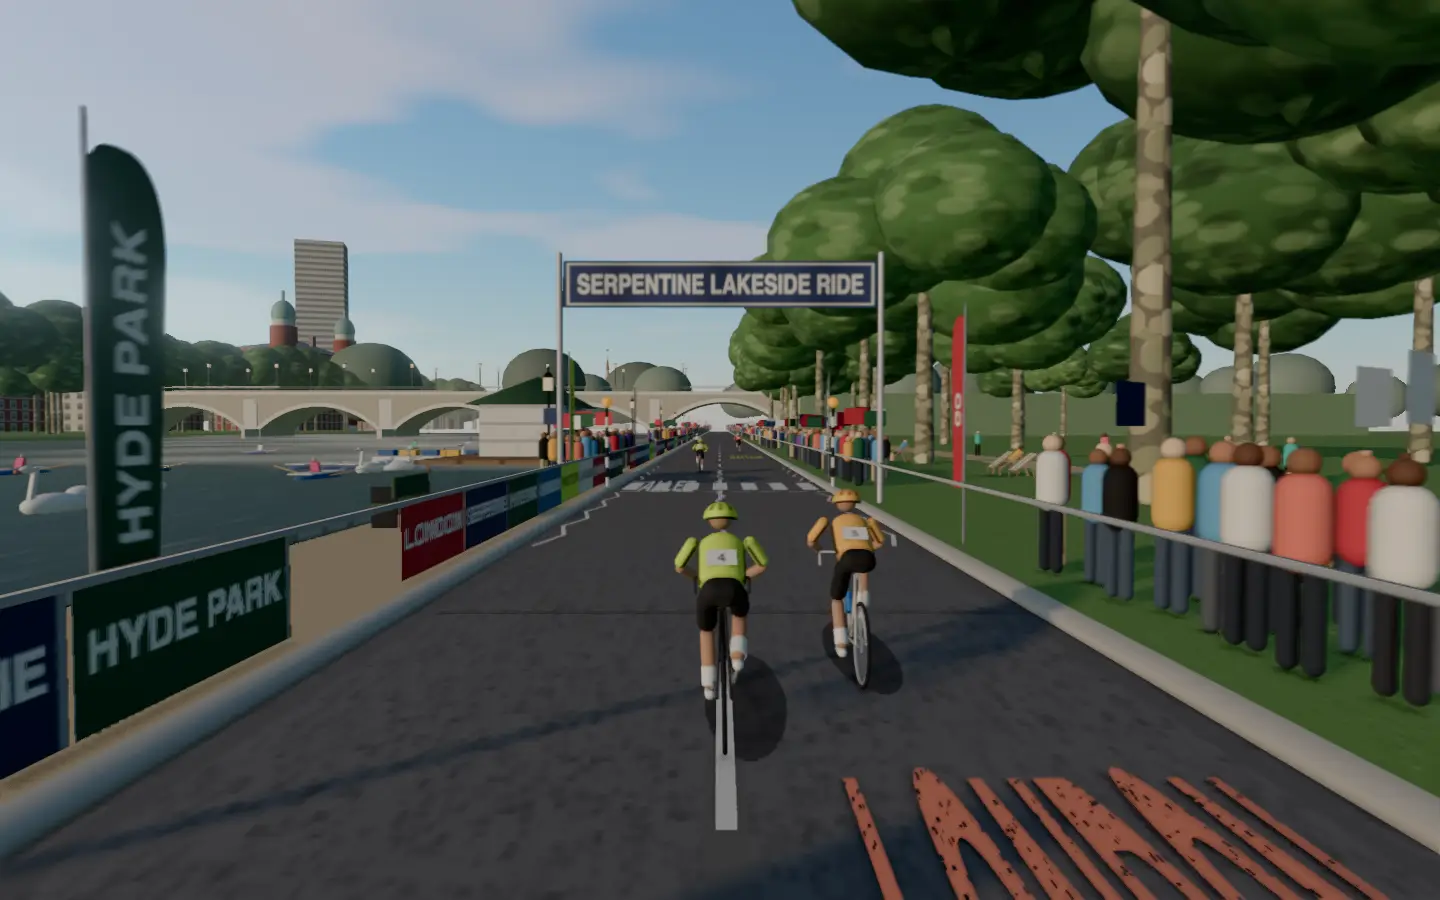
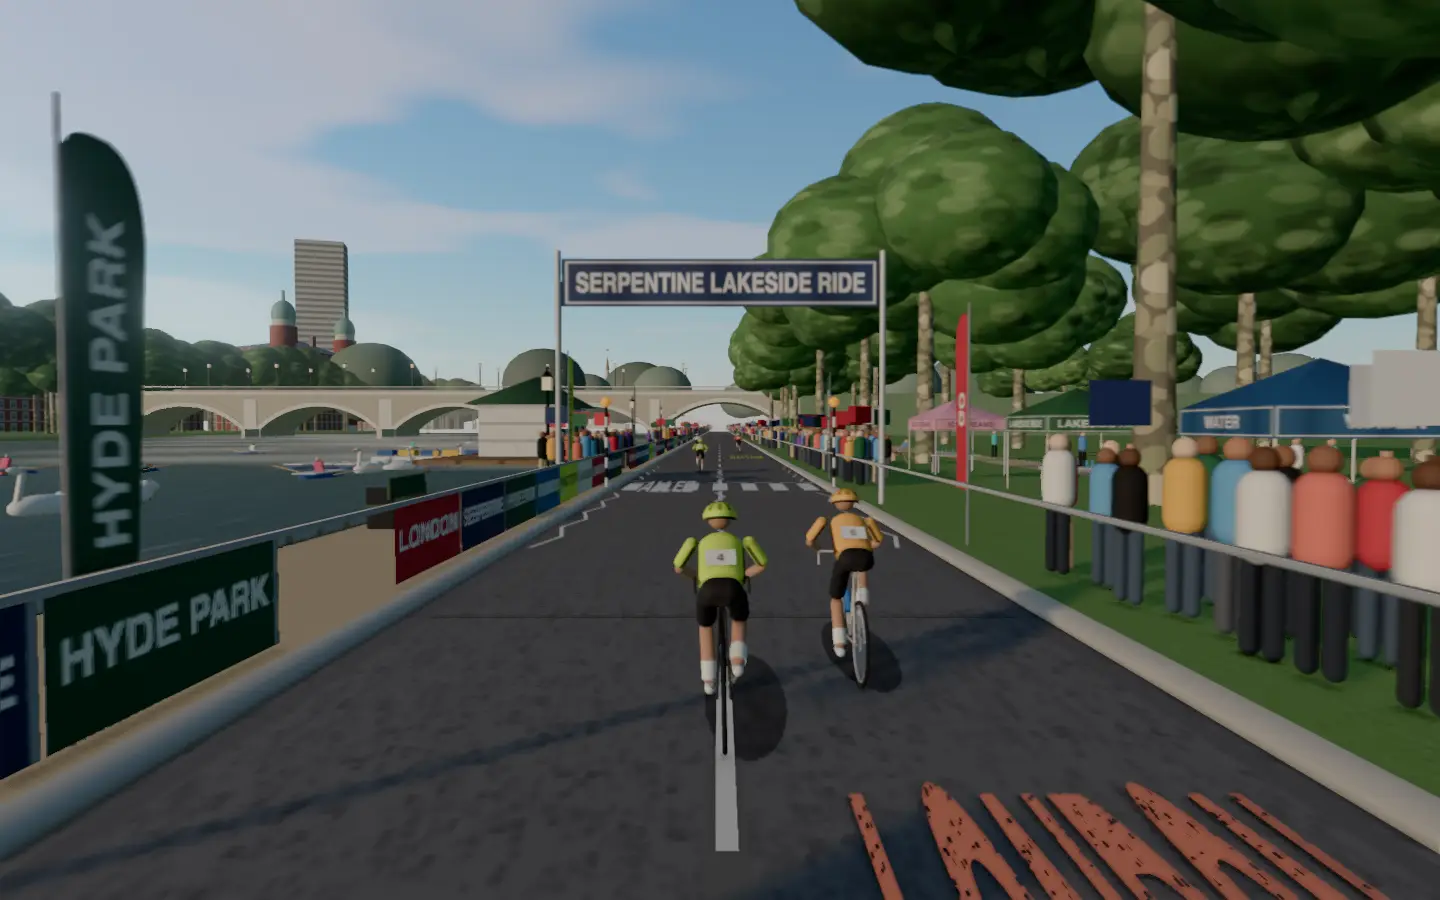
Share the pop-up tents in the kit and pitch the Serpentine ride's village

diff --git a/frontend/projects/wattzup/src/app/core/world-kit.ts b/frontend/projects/wattzup/src/app/core/world-kit.ts
@@ -3,12 +3,13 @@
 // figures' limbs. A street built on them follows Old Town's pattern (world-oldtown.ts): `build`
 // once, then `lay` and `place` each frame, recycling its parts along a loop.
 import {
-  type BoxGeometry,
+  BoxGeometry,
   BufferAttribute,
   BufferGeometry,
   CanvasTexture,
   CapsuleGeometry,
   Color,
+  ConeGeometry,
   CylinderGeometry,
   DoubleSide,
   Group,
@@ -643,6 +644,92 @@ function mistTexture(curtain: boolean): CanvasTexture {
       g.fillRect(0, 0, 256, 256);
     }
   });
+}
+
+/**
+ * Pop-up tents for a ride's village: a 3 m square canopy peaked over four white legs, a printed
+ * valance on every side naming the tent, and a trestle table under it laid with water bottles.
+ */
+export class PopupTents {
+  private readonly leg = new CylinderGeometry(0.03, 0.03, 2.3, 6).translate(0, 1.15, 0);
+  private readonly roof = new ConeGeometry(2.12, 0.8, 4, 1, true).rotateY(Math.PI / 4);
+  private readonly valance = new PlaneGeometry(3, 0.5);
+  private readonly top = new BoxGeometry(1.9, 0.05, 0.7);
+  private readonly bottle = new CylinderGeometry(0.035, 0.035, 0.22, 8);
+  private readonly white = new MeshStandardMaterial({
+    color: 0xf2f2ee,
+    metalness: 0.4,
+    roughness: 0.4,
+  });
+  private readonly water = new MeshStandardMaterial({
+    color: 0x4fa3d8,
+    roughness: 0.2,
+    transparent: true,
+    opacity: 0.85,
+  });
+
+  constructor(
+    private readonly disposables: { dispose(): void }[],
+    private readonly track: <T extends Texture>(texture: T) => T,
+  ) {
+    disposables.push(
+      this.leg,
+      this.roof,
+      this.valance,
+      this.top,
+      this.bottle,
+      this.white,
+      this.water,
+    );
+  }
+
+  /** A tent with `text` on its valance, in `fill` with `ink` lettering. */
+  make(text: string, fill: string, ink: string): Group {
+    const tent = new Group();
+    for (const [lx, lz] of [
+      [-1.45, -1.45],
+      [1.45, -1.45],
+      [-1.45, 1.45],
+      [1.45, 1.45],
+    ] as const) {
+      const l = new Mesh(this.leg, this.white);
+      l.position.set(lx, 0, lz);
+      tent.add(l);
+    }
+    const cloth = new MeshStandardMaterial({ color: fill, side: DoubleSide, roughness: 0.7 });
+    const print = new MeshStandardMaterial({
+      map: this.track(clothBannerTexture(text, fill, ink)),
+      side: DoubleSide,
+      roughness: 0.7,
+    });
+    this.disposables.push(cloth, print);
+    const canopy = new Mesh(this.roof, cloth);
+    canopy.position.y = 2.3 + 0.4;
+    canopy.castShadow = true;
+    tent.add(canopy);
+    for (let k = 0; k < 4; k++) {
+      const v = new Mesh(this.valance, print);
+      const a = (k * Math.PI) / 2;
+      v.position.set(Math.sin(a) * 1.5, 2.05, Math.cos(a) * 1.5);
+      v.rotation.y = a;
+      tent.add(v);
+    }
+    const table = new Mesh(this.top, this.white);
+    table.position.y = 0.75;
+    tent.add(table);
+    for (const tx of [-0.75, -0.5, 0.75]) {
+      const tableLeg = new Mesh(this.leg, this.white);
+      tableLeg.scale.y = 0.32;
+      tableLeg.position.set(tx < 0 ? -0.85 : 0.85, 0, tx === -0.5 ? 0.3 : -0.3);
+      tent.add(tableLeg);
+    }
+    for (let b = 0; b < 8; b++) {
+      const m = new Mesh(this.bottle, this.water);
+      m.position.set(-0.8 + b * 0.22, 0.88, (b % 2) * 0.14 - 0.07);
+      tent.add(m);
+    }
+    return tent;
+  }
 }
 
 /** A feather flag's colour and the word down it: the word, the cloth's fill and the ink. */

diff --git a/frontend/projects/wattzup/src/app/core/world-serpentine.ts b/frontend/projects/wattzup/src/app/core/world-serpentine.ts
@@ -44,6 +44,7 @@ import {
   loopMetres,
   Mist,
   paintTexture,
+  PopupTents,
   Ribbons,
   scaleFaceUv,
   type SceneStreet,
@@ -125,6 +126,20 @@ const FEATHERS: readonly FeatherWord[] = [
   ['WATTZUP', '#d7ff3a', '#1b1e24'],
 ];
 const FEATHER_EVERY = 16;
+/**
+ * The ride village's pop-up tents on the lawn: the valance's words, the canopy's fill and the
+ * ink, how far into the loop and how far off the road's centre. The first stand in the opening
+ * view.
+ */
+const TENTS: readonly (readonly [string, string, string, number, number])[] = [
+  ['WATER', '#1f4e79', '#ffffff', 108, 9.8],
+  ['LAKESIDE RIDE', '#2c5e3a', '#ffffff', 118, 10.4],
+  ['ICE CREAMS', '#f2a7c3', '#5a1f33', 128, 9.9],
+  ['WATTZUP', '#d7ff3a', '#1b1e24', 210, 9.8],
+  ['BIKE REPAIR', '#c8202f', '#ffffff', 220, 10.3],
+  ['FIRST AID', '#f2efe6', '#c8202f', 340, 9.8],
+  ['WATER', '#1f4e79', '#ffffff', 430, 9.6],
+];
 /** What the fans paint on the road, its colour and how far off the centre line. */
 const ROAD_PAINT: readonly (readonly [string, string, number])[] = [
   ['COME ON', '#ffffff', -1.8],
@@ -226,6 +241,7 @@ export class SerpentineStreet implements SceneStreet {
     this.addJoggers();
     this.addStreetBanners(roadHalf);
     this.addFeatherFlags();
+    this.addTents();
     this.addRoadPaint();
     this.addCrossing(roadHalf);
     this.addHorizon();
@@ -474,7 +490,9 @@ export class SerpentineStreet implements SceneStreet {
     let placed = 0;
     for (let offset = 2; placed < DECKCHAIRS; offset += 6 + random() * 10) {
       const group = 2 + Math.floor(random() * 2);
-      const x = 6.8 + random() * 7;
+      // Set back behind the village's tents where they stand.
+      const tent = TENTS.some(([, , , at]) => Math.abs(offset - at) < 6);
+      const x = 6.8 + random() * 7 + (tent ? 6 : 0);
       for (let k = 0; k < group && placed < DECKCHAIRS; k++, placed++) {
         const chair = new Group();
         const canvas = new Mesh(sling, stripes);
@@ -871,6 +889,17 @@ export class SerpentineStreet implements SceneStreet {
     this.group.add(crossing);
     // Short of the boathouse, close enough in the opening view to read.
     this.props.push({ mesh: crossing, offset: BOATHOUSE - 28, every: LOOP, x: 0 });
+  }
+
+  /** The ride village: pop-up tents on the lawn, each turned a little to the road. */
+  private addTents(): void {
+    const tents = new PopupTents(this.disposables, this.track);
+    TENTS.forEach(([text, fill, ink, offset, x], i) => {
+      const tent = tents.make(text, fill, ink);
+      tent.rotation.y = (i % 3) * 0.12 - 0.12;
+      this.group.add(tent);
+      this.props.push({ mesh: tent, offset, every: LOOP, x, near: true });
+    });
   }
 
   /** What the fans have painted on the road. */

diff --git a/frontend/projects/wattzup/src/app/core/world-stanleypark.ts b/frontend/projects/wattzup/src/app/core/world-stanleypark.ts
@@ -39,6 +39,7 @@ import {
   hazedMaterial,
   loopMetres,
   paintTexture,
+  PopupTents,
   Ribbons,
   scaleFaceUv,
   type SceneStreet,
@@ -520,66 +521,9 @@ export class StanleyParkStreet implements SceneStreet {
    * printed valance on every side, and a trestle table under it laid with water bottles.
    */
   private addTents(): void {
-    const leg = new CylinderGeometry(0.03, 0.03, 2.3, 6);
-    leg.translate(0, 1.15, 0);
-    const roof = new ConeGeometry(2.12, 0.8, 4, 1, true);
-    roof.rotateY(Math.PI / 4);
-    const valance = new PlaneGeometry(3, 0.5);
-    const top = new BoxGeometry(1.9, 0.05, 0.7);
-    const bottle = new CylinderGeometry(0.035, 0.035, 0.22, 8);
-    this.disposables.push(leg, roof, valance, top, bottle);
-    const white = this.material({ color: 0xf2f2ee, metalness: 0.4, roughness: 0.4 });
-    const blue = this.material({
-      color: 0x4fa3d8,
-      roughness: 0.2,
-      transparent: true,
-      opacity: 0.85,
-    });
+    const tents = new PopupTents(this.disposables, this.track);
     TENTS.forEach(([text, fill, ink, offset, x], i) => {
-      const tent = new Group();
-      for (const [lx, lz] of [
-        [-1.45, -1.45],
-        [1.45, -1.45],
-        [-1.45, 1.45],
-        [1.45, 1.45],
-      ] as const) {
-        const l = new Mesh(leg, white);
-        l.position.set(lx, 0, lz);
-        tent.add(l);
-      }
-      const canopy = new Mesh(
-        roof,
-        this.material({ color: fill, side: DoubleSide, roughness: 0.7 }),
-      );
-      canopy.position.y = 2.3 + 0.4;
-      canopy.castShadow = true;
-      tent.add(canopy);
-      const print = this.material({
-        map: this.track(clothBannerTexture(text, fill, ink)),
-        side: DoubleSide,
-        roughness: 0.7,
-      });
-      for (let k = 0; k < 4; k++) {
-        const v = new Mesh(valance, print);
-        const a = (k * Math.PI) / 2;
-        v.position.set(Math.sin(a) * 1.5, 2.05, Math.cos(a) * 1.5);
-        v.rotation.y = a;
-        tent.add(v);
-      }
-      const table = new Mesh(top, white);
-      table.position.y = 0.75;
-      tent.add(table);
-      for (const tx of [-0.75, -0.5, 0.75]) {
-        const tableLeg = new Mesh(leg, white);
-        tableLeg.scale.y = 0.32;
-        tableLeg.position.set(tx < 0 ? -0.85 : 0.85, 0, tx === -0.5 ? 0.3 : -0.3);
-        tent.add(tableLeg);
-      }
-      for (let b = 0; b < 8; b++) {
-        const m = new Mesh(bottle, blue);
-        m.position.set(-0.8 + b * 0.22, 0.88, (b % 2) * 0.14 - 0.07);
-        tent.add(m);
-      }
+      const tent = tents.make(text, fill, ink);
       tent.rotation.y = (i % 3) * 0.12 - 0.12;
       this.group.add(tent);
       this.props.push({ mesh: tent, offset, every: LOOP, x });

diff --git a/docs/detailed-designs/world-ride/draw-class-scene/README.md b/docs/detailed-designs/world-ride/draw-class-scene/README.md
@@ -240,7 +240,7 @@ None.
   - on the left a concrete walkway where twenty-six walkers and joggers go both ways (the kit's `Figures`), half of them in the stretch the rider first sees, then the seawall's granite face dropping to English Bay, sailboats tacking on it; `sink` drops the ground below the water;
   - on the right a grass verge, a mossy rock bank rising 7 m and the forest on and above it: western red cedars with drooping tiers on fluted reddish trunks and tall dark Douglas firs;
   - once a lap, 140 m into the loop and so in the opening view, the totem poles of Brockton Point on their lawn 6.2 m off the centre line, the crowd and the trees standing back from them: carved cedar poles of four stacked figures painted black, red and blue-green, each turned so its faces and beaks look out over the path toward the oncoming riders, some with wings outstretched;
-  - the ride's village on the grass behind the right-hand crowd, either side of the totem poles' lawn: 3 m pop-up tents in the ride's colours peaked over white legs, each named on a printed valance (WATER, SEAWALL RIDE, WATTZUP, BIKE REPAIR, VANCOUVER, FIRST AID), with a trestle table of water bottles under each;
+  - the ride's village on the grass behind the right-hand crowd, either side of the totem poles' lawn: the kit's `PopupTents`, 3 m pop-up tents in the ride's colours peaked over white legs, each named on a printed valance (WATER, SEAWALL RIDE, WATTZUP, BIKE REPAIR, VANCOUVER, FIRST AID), with a trestle table of water bottles under each;
   - the shared crowd in knots along the barriers, flocks of Canada geese grazing on the verge, and a white floatplane with red stripes on its floats banking in a slow arc low over the bay ahead and to the left, coming in to Coal Harbour;
   - 480 m ahead the Lions Gate Bridge leaving the park's headland 70 m right of the path and crossing the narrows, turned half a radian away so its towers' legs stand apart and its deck and cables run off into the distance: green towers with portal struts and X-bracing in each bay, sagging main cables with hangers and the high deck, freighters at anchor in the bay, North Vancouver's waterfront behind the bridge (white, cream and glass apartment towers with bands of balconies and lower blocks between them, along a wooded shore), forested foothills rising in folds behind it, and the North Shore mountains about 4 km off, forested ridges with snow on their tops, each layer hazed by hand a little more than the one in front.
 
@@ -286,6 +286,7 @@ None.
   - on the left a buff gravel footpath with black cast-iron lamp posts every 30 m and a green park bench between each pair facing the water, the lake's stone edge, and the lake 0.6 m below the road out to its far bank 130 m off, where more plane trees stand; `sink` drops the ground below the water;
   - once a lap, 150 m into the loop and so in the opening view, the boathouse on its timber jetty: a white weatherboarded hut under a green hipped roof, a BOATS FOR HIRE sign over the footpath, blue rowing boats and yellow and blue pedalos moored beside it;
   - on the right the lawns under London plane trees in loose rows, their bark mottled cream, olive and grey and their crowns broad and rounded, green-and-white striped deckchairs in twos and threes facing the lake with someone in nearly half of them, and a gravel path 16 m off where joggers and walkers go both ways (the kit's `Figures`);
+  - the ride's village on the lawn behind the right-hand crowd, the first three in the opening view: the kit's `PopupTents` (WATER, LAKESIDE RIDE, ICE CREAMS, WATTZUP, BIKE REPAIR, FIRST AID), each a 3 m canopy in its own colour over white legs with a printed valance and a table of water bottles, the deckchairs set back behind them;
   - the morning mist (the kit's `Mist`): banks lying just over the water, drifting along the lake, and two soft curtains beyond the bridge veiling the gardens and the town;
   - the shared crowd in knots along the barriers, thinner on the lake side so the water shows between them, rowing boats pulled along the lake with their oars sweeping, half of them out on the water in the stretch the rider first sees, and mute swans drifting off the bank there in small groups;
   - 175 m ahead the Serpentine Bridge across the lake, the road passing under the last of its five shallow arches: Portland stone with a proud ring of voussoirs to each arch, pilasters up the piers, cutwaters, a cornice and a balustrade with black lamp standards along both parapets every 15 m, and a grassed embankment carrying the road on to it; beyond it, 240 m ahead and further, Kensington Gardens' trees, the Albert Memorial's gilded Gothic spire rising over them, and to the left Knightsbridge over the far bank's trees: mansion blocks in red brick and Portland stone, six to nine storeys under slate mansards with chimney stacks, the turreted red-brick hotel by the park with its green copper cupolas, and the barracks tower, all hazed by hand. Trees, deckchairs and banners on the lawns are hidden past the bridge so none stands in front of its arches.

diff --git a/docs/class-worlds.md b/docs/class-worlds.md
@@ -28,7 +28,7 @@ Every class in `frontend/public/classes.json`, with its World Ride scene. Render
 | 22 | 15 Minute Beginner Session | Stanley Park Seawall | 81% | The seawall path curls around Vancouver's Stanley Park between the cedars and the sea, past the totem poles at Brockton Point and sailboats on English Bay toward the green towers of the Lions Gate Bridge under the North Shore mountains. The easy warm-up rolls past the totem poles, the one- and two-minute pushes follow the seawall's curve under the cedars, and the single thirty-second sprint races toward the bridge. |
 | 23 | 15 Minute Cardio Workout at Home | Suburban Sunrise | 70% | Quiet tree-lined streets at dawn; sprinklers ticking, papers landing, neighbours waving from porches. |
 | 24 | 15 Min HIIT Cardio: Belly Fat Loss | Bondi to Bronte (concept) |  | Sydney's clifftop coast path; surf breaking below and an ocean pool at every headland. |
-| 25 | 15 Minute HIIT Cardio | Serpentine, Hyde Park | 78% | Rowing boats and white swans glide on the Serpentine as the lakeside road runs west through Hyde Park past the boathouse and the striped deckchairs under the plane trees toward the five stone arches of the Serpentine Bridge. The two-minute warm-up rolls past the boathouse, the three-minute tempo blocks sweep along the lake under the planes, and each thirty-second sprint races for the bridge's arches. |
+| 25 | 15 Minute HIIT Cardio | Serpentine, Hyde Park | 80% | Rowing boats and white swans glide on the Serpentine as the lakeside road runs west through Hyde Park past the boathouse and the striped deckchairs under the plane trees toward the five stone arches of the Serpentine Bridge. The two-minute warm-up rolls past the boathouse, the three-minute tempo blocks sweep along the lake under the planes, and each thirty-second sprint races for the bridge's arches. |
 | 26 | Quick HIIT Workout | Notting Hill Carnival | 72% | Sound systems throbbing on Ladbroke Grove; push through costumed mas bands on carnival Monday. |
 | 27 | Instant Inferno | Kīlauea Lava Road (concept) |  | Hawaiian lava fields and glowing steam vents; each effort climbs toward the crater rim. |
 | 28 | Easy Riding | Napa Vineyards (concept) |  | Rolling vine rows and oak-shaded wineries on a warm Californian afternoon. |
